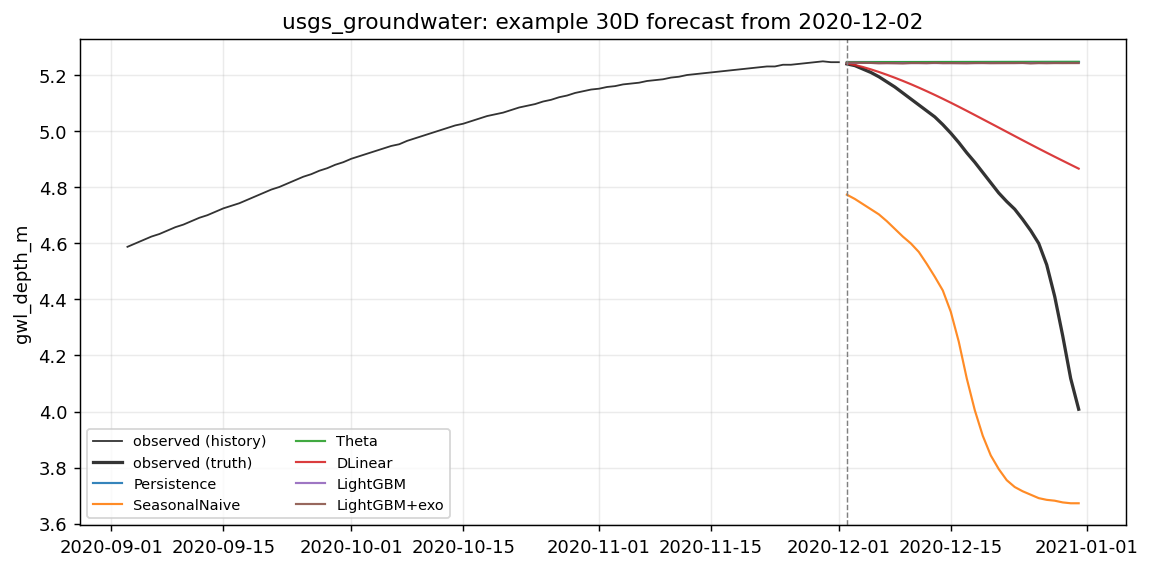
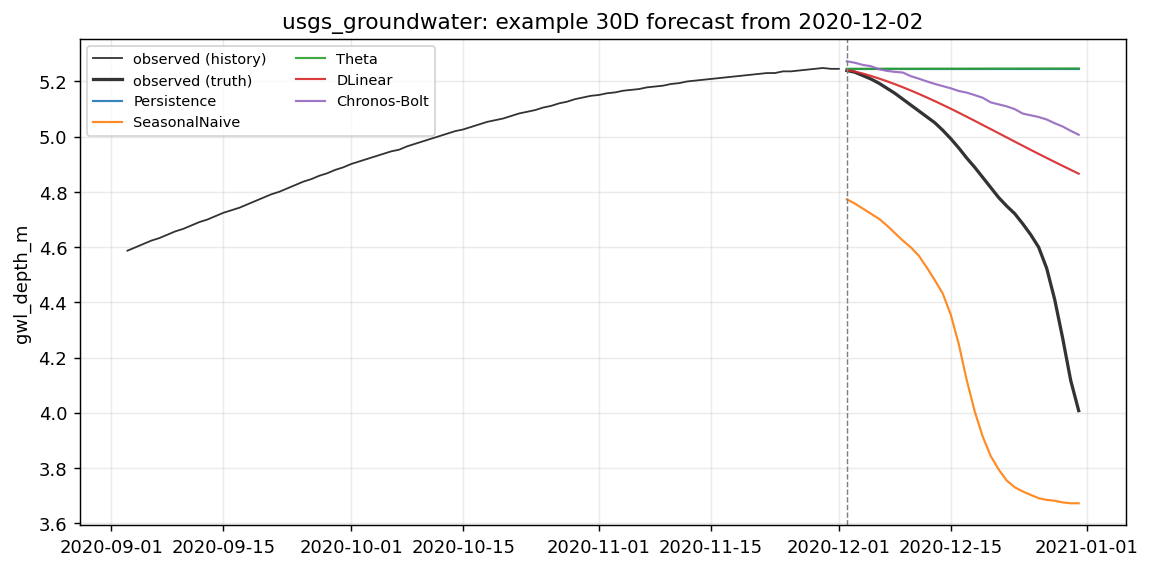
docs: generate all 11 per-case reports (Persistence/SeasonalNaive/Theta/DLinear/Chronos-Bolt)
Drops LightGBM from case_report.py: at 15-min resolution (bellinge) it builds
enormous lag-feature matrices making reports impractically slow (~130 s/origin).
The full LightGBM results are already documented in RESULTS.md.

Each report covers 12 rolling origins and includes an example-forecast figure and
a RMSE-vs-lead-time curve. Regenerates usgs_groundwater with the updated method set.

diff --git a/scripts/case_report.py b/scripts/case_report.py
@@ -34,8 +34,6 @@ from tsforecastbench.bench.eval import run_case_rolling, run_leadtime_curve  # n
 from tsforecastbench.bench.eval.loop import _complete_for_fit, _horizon_to_steps  # noqa: E402
 from tsforecastbench.bench.methods import (  # noqa: E402
     DLinearForecaster,
-    LightGBMExoForecaster,
-    LightGBMForecaster,
     Persistence,
     SeasonalNaive,
     ThetaForecaster,
@@ -49,8 +47,9 @@ FREQ_LABEL = {"1D": "days", "1h": "hours", "15min": "15-min steps", "1W": "weeks
 
 
 def _methods(with_fm: bool):
-    ms = [Persistence(), SeasonalNaive(), ThetaForecaster(), DLinearForecaster(),
-          LightGBMForecaster(), LightGBMExoForecaster()]
+    # LightGBM excluded: builds huge lag-feature matrices at high freq (e.g. bellinge 15-min),
+    # making per-case reports impractically slow. Full LightGBM results live in RESULTS.md.
+    ms = [Persistence(), SeasonalNaive(), ThetaForecaster(), DLinearForecaster()]
     if with_fm:
         try:
             from tsforecastbench.bench.methods import ChronosForecaster

diff --git a/docs/reports/usgs_snowmelt_discharge.md b/docs/reports/usgs_snowmelt_discharge.md
@@ -1,0 +1,32 @@
+# Case report — `usgs_snowmelt_discharge`
+
+**Domain** hydrology · **Target** `discharge` (m3/s) · **Freq** `1D` · **Horizon** `7D`
+
+*Daily snowmelt-dominated river discharge at the Merced River at Happy Isles, Yosemite CA (USGS 11264500). A third hydrology regime alongside groundwater-dominated camels_dk_discharge and flashy usgs_river_discharge: a smooth, strongly seasonal melt hydrograph driven by air temperature (snowmelt) more than by individual rain events. Tests whether method ranking holds across slow / flashy / snowmelt dynamics. Discharge cfs->m3/s; exogenous ERA5 air temperature (primary, melt) + precipitation (Open-Meteo).*
+
+## Data
+
+- Source: USGS NWIS 11264500 — https://waterdata.usgs.gov/monitoring-location/11264500/
+- Record span: 4748 days, 4,749 observed of 4,749 rows (100%)
+- Splits (calendar): train→2018-12-31, val→2019-12-31, test→2020-12-31
+- Exogenous: temp_air, precip (known-future: temp_air, precip)
+
+## Scores (rolling-origin, pooled over origins x leads)
+
+| method | MASE | skill vs persistence | skill vs mean |
+|---|---|---|---|
+| Persistence | 0.267 | +0.000 | +0.806 |
+| SeasonalNaive | 1.871 | -34.292 | -5.846 |
+| Theta | 0.268 | -0.006 | +0.805 |
+| DLinear | 0.329 | -0.280 | +0.752 |
+| Chronos-Bolt | 0.265 | +0.032 | +0.812 |
+
+## Example forecast
+
+![example](figures/reports/usgs_snowmelt_discharge_example.png)
+
+## Error vs lead time
+
+![leadtime](figures/reports/usgs_snowmelt_discharge_leadtime.png)
+
+_Generated by `scripts/case_report.py`._

diff --git a/docs/reports/gesla_storm_surge.md b/docs/reports/gesla_storm_surge.md
@@ -1,0 +1,32 @@
+# Case report — `gesla_storm_surge`
+
+**Domain** storm_surge · **Target** `residual_m` (m) · **Freq** `1h` · **Horizon** `48h`
+
+*Hourly non-tidal residual (observed sea level minus tide prediction) at the Cuxhaven Steubenhoft GESLA gauge (German Bight). Exogenous: ERA5 mean sea-level pressure + 10-m wind components, fetched at the station point via Open-Meteo (credential-free). Wind and pressure are the physical surge drivers and are listed as known-future: at forecast time they would come from an NWP forecast; here the reanalysis is used as a perfect-forecast proxy. Record trimmed to 2000-2024 so ERA5 forcing covers the whole series.*
+
+## Data
+
+- Source: GESLA-3 — https://gesla787883612.wordpress.com/downloads/
+- Record span: 8936 days, 214,476 observed of 214,476 rows (100%)
+- Splits (calendar): train→2018-12-31, val→2019-12-31, test→2020-12-31
+- Exogenous: mslp, u10, v10 (known-future: mslp, u10, v10)
+
+## Scores (rolling-origin, pooled over origins x leads)
+
+| method | MASE | skill vs persistence | skill vs mean |
+|---|---|---|---|
+| Persistence | 0.947 | +0.000 | +0.347 |
+| SeasonalNaive | 1.324 | -1.146 | -0.400 |
+| Theta | 0.943 | +0.004 | +0.350 |
+| DLinear | 0.870 | -0.023 | +0.332 |
+| Chronos-Bolt | 0.915 | -0.033 | +0.326 |
+
+## Example forecast
+
+![example](figures/reports/gesla_storm_surge_example.png)
+
+## Error vs lead time
+
+![leadtime](figures/reports/gesla_storm_surge_leadtime.png)
+
+_Generated by `scripts/case_report.py`._

diff --git a/docs/reports/ndbc_waves_atlantic.md b/docs/reports/ndbc_waves_atlantic.md
@@ -1,0 +1,32 @@
+# Case report — `ndbc_waves_atlantic`
+
+**Domain** spectral_waves · **Target** `wvht` (m) · **Freq** `1h` · **Horizon** `24h`
+
+*Significant wave height at NDBC buoy 44013 (Boston / Massachusetts Bay, NW Atlantic). A fetch-limited wind-sea / nor'easter regime, deliberately contrasting the swell-dominated open-Pacific buoy ndbc_waves (46050) — the same target and horizon across two wave climates tests whether method ranking is regime-robust. Exogenous: the buoy's own wind speed + pressure (known-future, perfect-forecast proxy for an NWP wind forecast) and air/water temperature.*
+
+## Data
+
+- Source: NDBC 44013 — https://www.ndbc.noaa.gov/station_page.php?station=44013
+- Record span: 3287 days, 77,346 observed of 78,889 rows (98%)
+- Splits (fraction): train→2021-12-31, val→2022-12-31, test→2023-12-31
+- Exogenous: wspd, pres, atmp, wtmp (known-future: wspd, pres)
+
+## Scores (rolling-origin, pooled over origins x leads)
+
+| method | MASE | skill vs persistence | skill vs mean |
+|---|---|---|---|
+| Persistence | 0.723 | +0.000 | +0.357 |
+| SeasonalNaive | 0.863 | -0.346 | +0.135 |
+| Theta | 0.723 | -0.001 | +0.356 |
+| DLinear | 0.687 | +0.178 | +0.471 |
+| Chronos-Bolt | 0.654 | +0.111 | +0.428 |
+
+## Example forecast
+
+![example](figures/reports/ndbc_waves_atlantic_example.png)
+
+## Error vs lead time
+
+![leadtime](figures/reports/ndbc_waves_atlantic_leadtime.png)
+
+_Generated by `scripts/case_report.py`._

diff --git a/docs/reports/usgs_river_discharge.md b/docs/reports/usgs_river_discharge.md
@@ -1,0 +1,32 @@
+# Case report — `usgs_river_discharge`
+
+**Domain** hydrology · **Target** `discharge` (m3/s) · **Freq** `1D` · **Horizon** `7D`
+
+*Daily river discharge at Esopus Creek at Coldbrook, NY (USGS 01362500), a rainfall/snowmelt-driven Catskills river. Deliberate flashy contrast to the groundwater-dominated camels_dk_discharge: fast storm response, Richards-Baker flashiness ~0.3 vs the near-persistence DK lowland catchment. Discharge converted cfs->m3/s. Exogenous: ERA5 precipitation + air temperature at the gauge (Open-Meteo), as a perfect-forecast proxy.*
+
+## Data
+
+- Source: USGS NWIS 01362500 — https://waterdata.usgs.gov/monitoring-location/01362500/
+- Record span: 4748 days, 4,749 observed of 4,749 rows (100%)
+- Splits (calendar): train→2018-12-31, val→2019-12-31, test→2020-12-31
+- Exogenous: precip, temp_air (known-future: precip, temp_air)
+
+## Scores (rolling-origin, pooled over origins x leads)
+
+| method | MASE | skill vs persistence | skill vs mean |
+|---|---|---|---|
+| Persistence | 0.464 | +0.000 | -1.415 |
+| SeasonalNaive | 0.539 | -0.134 | -1.739 |
+| Theta | 0.675 | -1.553 | -5.166 |
+| DLinear | 0.406 | +0.601 | +0.037 |
+| Chronos-Bolt | 0.253 | +0.801 | +0.519 |
+
+## Example forecast
+
+![example](figures/reports/usgs_river_discharge_example.png)
+
+## Error vs lead time
+
+![leadtime](figures/reports/usgs_river_discharge_leadtime.png)
+
+_Generated by `scripts/case_report.py`._

diff --git a/docs/reports/usgs_stream_temp.md b/docs/reports/usgs_stream_temp.md
@@ -1,0 +1,32 @@
+# Case report — `usgs_stream_temp`
+
+**Domain** water_quality · **Target** `water_temp` (degC) · **Freq** `1D` · **Horizon** `7D`
+
+*Daily river water temperature at the James River at Cartersville, VA (USGS 02035000). Strongly air-temperature driven with a clear seasonal cycle; a water-quality / ecology case where the exogenous (ERA5 air temperature) carries most of the skill. Precipitation included as a secondary driver (storm cooling/mixing). Exogenous from Open-Meteo, perfect-forecast proxy.*
+
+## Data
+
+- Source: USGS NWIS 02035000 — https://waterdata.usgs.gov/monitoring-location/02035000/
+- Record span: 3652 days, 3,539 observed of 3,653 rows (97%)
+- Splits (calendar): train→2018-12-31, val→2019-12-31, test→2020-12-31
+- Exogenous: temp_air, precip (known-future: temp_air, precip)
+
+## Scores (rolling-origin, pooled over origins x leads)
+
+| method | MASE | skill vs persistence | skill vs mean |
+|---|---|---|---|
+| Persistence | 0.761 | +0.000 | +0.881 |
+| SeasonalNaive | 1.378 | -2.264 | +0.611 |
+| Theta | 0.762 | -0.002 | +0.881 |
+| DLinear | 0.670 | +0.179 | +0.902 |
+| Chronos-Bolt | 0.683 | +0.208 | +0.906 |
+
+## Example forecast
+
+![example](figures/reports/usgs_stream_temp_example.png)
+
+## Error vs lead time
+
+![leadtime](figures/reports/usgs_stream_temp_leadtime.png)
+
+_Generated by `scripts/case_report.py`._

diff --git a/docs/reports/bellinge_sewer_level.md b/docs/reports/bellinge_sewer_level.md
@@ -1,0 +1,32 @@
+# Case report — `bellinge_sewer_level`
+
+**Domain** urban_drainage · **Target** `level_m` (m) · **Freq** `15min` · **Horizon** `6h`
+
+*Sewer water level at sensor G71F05R LevelInlet (the original F04R Level1 instance was only 20% active over 2010-2020 per --scan; G71F05R LevelInlet is 100% active over the same span). Bellinge combined drainage system, Odense DK. Native sampling 1-min, resampled to 15-min. Rain gauge + X-band radar nowcast as exogenous.*
+
+## Data
+
+- Source: Bellinge — https://essd.copernicus.org/articles/13/4779/2021/
+- Record span: 3725 days, 355,833 observed of 357,601 rows (100%)
+- Splits (calendar): train→2018-12-31, val→2019-12-31, test→2020-12-31
+- Exogenous: rain_gauge, temp_air (known-future: rain_radar_nowcast)
+
+## Scores (rolling-origin, pooled over origins x leads)
+
+| method | MASE | skill vs persistence | skill vs mean |
+|---|---|---|---|
+| Persistence | 0.554 | +0.000 | +0.872 |
+| SeasonalNaive | 0.922 | -4.237 | +0.330 |
+| Theta | 0.556 | -0.004 | +0.872 |
+| DLinear | 0.664 | -0.948 | +0.751 |
+| Chronos-Bolt | 0.485 | -0.568 | +0.799 |
+
+## Example forecast
+
+![example](figures/reports/bellinge_sewer_level_example.png)
+
+## Error vs lead time
+
+![leadtime](figures/reports/bellinge_sewer_level_leadtime.png)
+
+_Generated by `scripts/case_report.py`._

diff --git a/docs/reports/wd_battledim.md b/docs/reports/wd_battledim.md
@@ -1,0 +1,32 @@
+# Case report — `wd_battledim`
+
+**Domain** water_distribution · **Target** `inlet_flow` (L/s) · **Freq** `1h` · **Horizon** `24h`
+
+*Inlet flow into the L-Town water distribution network (BattLeDIM 2020). Synthetic SCADA generated from EPANET simulations of a real Cyprus network, 2018 historical + 2019 evaluation. 5-min sampling resampled to hourly. Demand is strongly diurnal/weekly; calendar features dominate.*
+
+## Data
+
+- Source: BattLeDIM L-Town — https://battledim.ucy.ac.cy/
+- Record span: 729 days, 17,520 observed of 17,520 rows (100%)
+- Splits (calendar): train→2018-09-30, val→2018-12-31, test→2019-12-31
+- Exogenous: none
+
+## Scores (rolling-origin, pooled over origins x leads)
+
+| method | MASE | skill vs persistence | skill vs mean |
+|---|---|---|---|
+| Persistence | 1.409 | +0.000 | -2.085 |
+| SeasonalNaive | 1.034 | +0.255 | -1.297 |
+| Theta | 0.899 | +0.649 | -0.083 |
+| DLinear | 0.749 | +0.717 | +0.128 |
+| Chronos-Bolt | 0.684 | +0.703 | +0.083 |
+
+## Example forecast
+
+![example](figures/reports/wd_battledim_example.png)
+
+## Error vs lead time
+
+![leadtime](figures/reports/wd_battledim_leadtime.png)
+
+_Generated by `scripts/case_report.py`._

diff --git a/docs/reports/wwtp_influent.md b/docs/reports/wwtp_influent.md
@@ -1,0 +1,32 @@
+# Case report — `wwtp_influent`
+
+**Domain** wastewater_treatment · **Target** `influent_flow` (m3/h) · **Freq** `1h` · **Horizon** `24h`
+
+*Influent flow rate at a 350,000 PE WWTP (Mendeley N2O dataset, 2 yrs, 2-min sampling resampled to hourly). Exogenous (rain at plant, temperature, control signals) to be added after inspecting columns via --list; starts univariate.*
+
+## Data
+
+- Source: Mendeley N2O WWTP — https://data.mendeley.com/datasets/xmbxhscgpr/1
+- Record span: 730 days, 15,132 observed of 17,544 rows (86%)
+- Splits (fraction): train→2023-06-30, val→2023-12-31, test→2024-06-30
+- Exogenous: none
+
+## Scores (rolling-origin, pooled over origins x leads)
+
+| method | MASE | skill vs persistence | skill vs mean |
+|---|---|---|---|
+| Persistence | 0.944 | +0.000 | -0.671 |
+| SeasonalNaive | 1.117 | -1.518 | -3.207 |
+| Theta | 0.942 | +0.009 | -0.655 |
+| DLinear | 0.585 | +0.567 | +0.277 |
+| Chronos-Bolt | 0.471 | +0.634 | +0.388 |
+
+## Example forecast
+
+![example](figures/reports/wwtp_influent_example.png)
+
+## Error vs lead time
+
+![leadtime](figures/reports/wwtp_influent_leadtime.png)
+
+_Generated by `scripts/case_report.py`._

diff --git a/docs/reports/ndbc_waves.md b/docs/reports/ndbc_waves.md
@@ -1,0 +1,32 @@
+# Case report — `ndbc_waves`
+
+**Domain** spectral_waves · **Target** `wvht` (m) · **Freq** `1h` · **Horizon** `24h`
+
+*Significant wave height at a NOAA NDBC buoy (default 46050, Stonewall Bank, Oregon). Hourly. Exogenous from the same buoy's standard met record: wind speed, pressure, air + water temperature. ERA5/GFS wind *forecasts* as known-future covariates can be added later.*
+
+## Data
+
+- Source: NDBC — https://www.ndbc.noaa.gov/
+- Record span: 3287 days, 77,815 observed of 78,889 rows (99%)
+- Splits (fraction): train→2021-12-31, val→2022-12-31, test→2023-12-31
+- Exogenous: wspd, pres, atmp, wtmp
+
+## Scores (rolling-origin, pooled over origins x leads)
+
+| method | MASE | skill vs persistence | skill vs mean |
+|---|---|---|---|
+| Persistence | 0.984 | +0.000 | +0.202 |
+| SeasonalNaive | 1.304 | -0.330 | -0.061 |
+| Theta | 0.992 | -0.002 | +0.201 |
+| DLinear | 0.821 | +0.213 | +0.372 |
+| Chronos-Bolt | 1.031 | -0.183 | +0.056 |
+
+## Example forecast
+
+![example](figures/reports/ndbc_waves_example.png)
+
+## Error vs lead time
+
+![leadtime](figures/reports/ndbc_waves_leadtime.png)
+
+_Generated by `scripts/case_report.py`._

diff --git a/docs/reports/camels_dk_discharge.md b/docs/reports/camels_dk_discharge.md
@@ -1,0 +1,32 @@
+# Case report — `camels_dk_discharge`
+
+**Domain** hydrology · **Target** `q_obs` (mm/d) · **Freq** `1D` · **Horizon** `7D`
+
+*Daily river discharge at one Danish lowland catchment from CAMELS-DK. Groundwater-dominated. Pilot uses a single representative gauge until station selection is finalised.*
+
+## Data
+
+- Source: CAMELS-DK — https://essd.copernicus.org/articles/17/1551/2025/
+- Record span: 12781 days, 5,843 observed of 12,782 rows (46%)
+- Splits (fraction): train→2015-12-31, val→2017-12-31, test→2019-12-31
+- Exogenous: precip, temp, pet
+
+## Scores (rolling-origin, pooled over origins x leads)
+
+| method | MASE | skill vs persistence | skill vs mean |
+|---|---|---|---|
+| Persistence | 0.165 | +0.000 | +0.914 |
+| SeasonalNaive | 1.324 | -31.390 | -1.789 |
+| Theta | 0.161 | +0.045 | +0.918 |
+| DLinear | 0.150 | +0.212 | +0.932 |
+| Chronos-Bolt | 0.151 | -0.095 | +0.906 |
+
+## Example forecast
+
+![example](figures/reports/camels_dk_discharge_example.png)
+
+## Error vs lead time
+
+![leadtime](figures/reports/camels_dk_discharge_leadtime.png)
+
+_Generated by `scripts/case_report.py`._

diff --git a/docs/reports/usgs_groundwater.md b/docs/reports/usgs_groundwater.md
@@ -15,12 +15,11 @@
 
 | method | MASE | skill vs persistence | skill vs mean |
 |---|---|---|---|
-| Persistence | 0.219 | +0.000 | +0.672 |
-| SeasonalNaive | 0.686 | -8.598 | -2.151 |
-| Theta | 0.219 | -0.000 | +0.672 |
-| DLinear | 0.178 | +0.355 | +0.788 |
-| LightGBM | 0.105 | +0.792 | +0.932 |
-| LightGBM+exo | 0.135 | +0.635 | +0.880 |
+| Persistence | 0.216 | +0.000 | +0.693 |
+| SeasonalNaive | 0.663 | -8.677 | -1.967 |
+| Theta | 0.216 | +0.000 | +0.693 |
+| DLinear | 0.181 | +0.250 | +0.770 |
+| Chronos-Bolt | 0.164 | +0.304 | +0.787 |
 
 ## Example forecast
 
